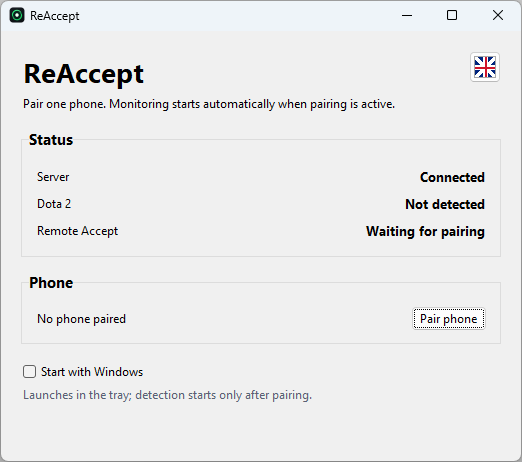
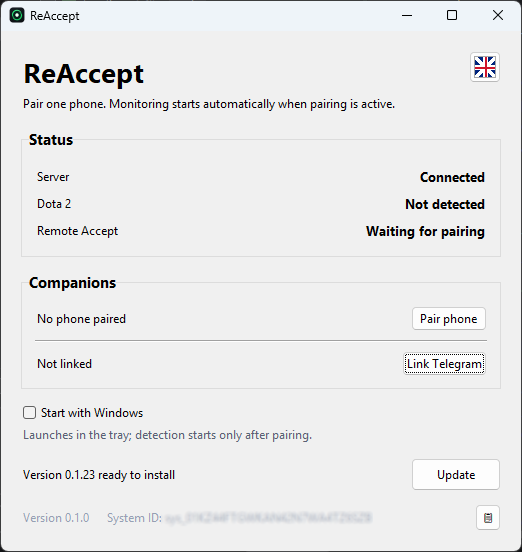
content: mention party invites, remote launch, and Telegram companion
Broadens the landing copy beyond match-found ready checks:

- Hero, meta/OG/Twitter, and JSON-LD description now cover party invites
  and remote Dota 2 launch, and refer to the unified "Companion" (phone
  app or Telegram) instead of just "your phone".
- How it works: step 2 retitled "Pair your Companion", copy trimmed so
  its image lines up with step 1; step 3 gets the new party-invite
  notification screenshot alongside the match-found one; added a note
  that the same flow covers party invites and remote launch.
- Features: three new cards (party invites, remote launch, Telegram).
- FAQ: added Telegram-as-alternative, party-invite/remote-launch scope,
  and unpair/revoke-anytime entries (the last one restores detail trimmed
  from step 2's copy).
- Features: dropped specific resolution callouts (1920x1080/2560x1440) in
  favor of "any resolution or display scale".
- Removed the 1-day trial mention (actual trial is 3 days) from the JSON-LD
  offer description and FAQ.
- Replaced desk-main.png and added app-party-notification.png with
  updated screenshots; bumped the shared asset rev to 20260819-1 so caches
  pick up the new images.

diff --git a/index.html b/index.html
@@ -4,7 +4,7 @@
   <meta charset="UTF-8">
   <meta name="viewport" content="width=device-width, initial-scale=1">
   <title>ReAccept — Remote match companion for Dota 2</title>
-  <meta name="description" content="Get notified and accept found match from your phone.">
+  <meta name="description" content="Get notified and accept found matches, respond to party invites, and launch Dota 2 remotely — from your Companion.">
   <link rel="canonical" href="https://re-accept.com/">
 
   <!-- Pre-launch: keep this page out of search results until billing is live.
@@ -14,16 +14,16 @@
   <!-- Open Graph / Twitter card -->
   <meta property="og:type" content="website">
   <meta property="og:title" content="ReAccept — Remote match companion for Dota 2">
-  <meta property="og:description" content="Get notified and accept found match from your phone.">
+  <meta property="og:description" content="Get notified and accept found matches, respond to party invites, and launch Dota 2 remotely — from your Companion.">
   <meta property="og:url" content="https://re-accept.com/">
-  <meta property="og:image" content="https://re-accept.com/assets/screenshots/en/og-cover.png?rev=20260812-2">
+  <meta property="og:image" content="https://re-accept.com/assets/screenshots/en/og-cover.png?rev=20260819-1">
   <meta name="twitter:card" content="summary_large_image">
   <meta name="twitter:title" content="ReAccept — Remote match companion for Dota 2">
-  <meta name="twitter:description" content="Get notified and accept found match from your phone.">
-  <meta name="twitter:image" content="https://re-accept.com/assets/screenshots/en/og-cover.png?rev=20260812-2">
+  <meta name="twitter:description" content="Get notified and accept found matches, respond to party invites, and launch Dota 2 remotely — from your Companion.">
+  <meta name="twitter:image" content="https://re-accept.com/assets/screenshots/en/og-cover.png?rev=20260819-1">
 
-  <link rel="icon" href="assets/icon.png?rev=20260812-2">
-  <link rel="stylesheet" href="styles.css?rev=20260812-2">
+  <link rel="icon" href="assets/icon.png?rev=20260819-1">
+  <link rel="stylesheet" href="styles.css?rev=20260819-1">
 
   <script type="application/ld+json">
   {
@@ -33,12 +33,12 @@
     "applicationCategory": "UtilitiesApplication",
     "operatingSystem": "Windows, Android",
     "url": "https://re-accept.com/",
-    "description": "Get notified and accept found match from your phone.",
+    "description": "Get notified and accept found matches, respond to party invites, and launch Dota 2 remotely — from your Companion.",
     "offers": {
       "@type": "Offer",
       "price": "0",
       "priceCurrency": "USD",
-      "description": "Free tier: 3 remote accepts total. Paid subscription: unlimited remote accepts, 1-day free trial."
+      "description": "Free tier: 3 remote accepts total. Paid subscription: unlimited remote accepts."
     }
   }
   </script>
@@ -48,7 +48,7 @@
   <header class="hero">
     <nav class="nav">
       <div class="brand">
-        <img src="assets/icon.png?rev=20260812-2" alt="" class="brand-icon">
+        <img src="assets/icon.png?rev=20260819-1" alt="" class="brand-icon">
         ReAccept
       </div>
       <div class="nav-links">
@@ -63,15 +63,18 @@
       <div class="hero-content">
         <h1>ReAccept</h1>
         <p class="hero-tagline">Remote match companion for Dota 2</p>
-        <p class="subhead">Get notified and accept found match from your phone.</p>
+        <p class="subhead">Get notified and accept found matches, respond to party invites, and
+          launch Dota 2 remotely — from your Companion.</p>
         <div class="cta-row">
           <a class="btn btn-primary" href="#download-windows">Download for Windows</a>
           <a class="btn btn-secondary" href="#download-android">Get the Android app</a>
         </div>
         <p class="hero-note">Free to try — 3 remote accepts on us, no account hassle.</p>
+        <p class="hero-note">Prefer Telegram? Link it from the desktop app instead of installing
+          anything — see <a href="#faq">FAQ</a>.</p>
       </div>
       <div class="hero-shot">
-        <img src="assets/screenshots/en/app-match-found.png?rev=20260812-2"
+        <img src="assets/screenshots/en/app-match-found.png?rev=20260819-1"
              alt="ReAccept phone notification for a match found, with an Accept button"
              loading="lazy">
       </div>
@@ -89,17 +92,17 @@
             <h3>Install the desktop agent</h3>
             <p>Runs quietly in the background while you queue. No border, no overlay, no interference
               with DX11 or Vulkan.</p>
-            <img class="step-shot step-shot-wide" src="assets/screenshots/en/desk-main.png?rev=20260812-2"
+            <img class="step-shot step-shot-wide" src="assets/screenshots/en/desk-main.png?rev=20260819-1"
                  alt="ReAccept desktop app showing server connected and Dota 2 detected">
           </div>
         </li>
         <li>
           <span class="step-num">2</span>
           <div>
-            <h3>Pair your phone</h3>
-            <p>Scan a QR code from the ReAccept app once. The pairing is per-device and can be
-              revoked at any time.</p>
-            <img class="step-shot step-pair-wide" src="assets/screenshots/en/desk-qr.png?rev=20260812-2"
+            <h3>Pair your Companion</h3>
+            <p>Scan a QR code from the ReAccept app once, or open the Telegram link shown in the
+              same spot on the desktop.</p>
+            <img class="step-shot step-pair-wide" src="assets/screenshots/en/desk-qr.png?rev=20260819-1"
                  alt="One-time pairing QR code shown by the ReAccept desktop app">
           </div>
         </li>
@@ -108,8 +111,10 @@
           <div>
             <h3>Get notified</h3>
             <p>A ready check appears — your phone buzzes with a push notification immediately.</p>
-            <img class="step-shot" src="assets/screenshots/en/app-notification.png?rev=20260812-2"
+            <img class="step-shot" src="assets/screenshots/en/app-notification.png?rev=20260819-1"
                  alt="Phone notification showing a Dota match found, with a large Accept action">
+            <img class="step-shot" src="assets/screenshots/en/app-party-notification.png?rev=20260819-1"
+                 alt="Phone notification showing a party invite, with Accept and Decline actions">
           </div>
         </li>
         <li>
@@ -117,7 +122,7 @@
           <div>
             <h3>Accept from anywhere</h3>
             <p>Tap Accept in the notification or the app. Your PC clicks the match for you.</p>
-            <img class="step-shot" src="assets/screenshots/en/app-match-found.png?rev=20260812-2"
+            <img class="step-shot" src="assets/screenshots/en/app-match-found.png?rev=20260819-1"
                  alt="ReAccept phone screen with the Match found dialog and Accept button">
           </div>
         </li>
@@ -125,6 +130,8 @@
       <p class="steps-note">Tapping <strong>Cancel</strong> in the app only dismisses that
         notification on your phone — it does not decline or cancel the actual Dota 2 match. If
         you don't act, the ready check just runs its normal course in-game.</p>
+      <p class="steps-note">The same flow also covers <strong>party invites</strong> and
+        <strong>launching Dota 2 itself</strong> — not just ready checks.</p>
     </section>
 
     <section id="background" class="section section-callout">
@@ -135,19 +142,19 @@
         optional.</p>
       <div class="callout-sequence">
         <figure>
-          <img src="assets/screenshots/en/app-settings.png?rev=20260812-2"
+          <img src="assets/screenshots/en/app-settings.png?rev=20260819-1"
                alt="ReAccept in-app Settings screen with a Request unrestricted battery use button"
                loading="lazy">
           <figcaption>1. In ReAccept → Settings, request unrestricted battery use</figcaption>
         </figure>
         <figure>
-          <img src="assets/screenshots/en/app-info.png?rev=20260812-2"
+          <img src="assets/screenshots/en/app-info.png?rev=20260819-1"
                alt="Android App info screen for ReAccept with Battery usage highlighted"
                loading="lazy">
           <figcaption>2. Open App info → Battery usage</figcaption>
         </figure>
         <figure>
-          <img src="assets/screenshots/en/app-allow-bg-activity.png?rev=20260812-2"
+          <img src="assets/screenshots/en/app-allow-bg-activity.png?rev=20260819-1"
                alt="Android Battery usage screen with Allow background activity enabled"
                loading="lazy">
           <figcaption>3. Turn on "Allow background activity"</figcaption>
@@ -160,7 +167,7 @@
       <div class="feature-grid">
         <div class="feature">
           <h3>Works with your setup</h3>
-          <p>DX11 and Vulkan, borderless and windowed, 1920x1080 and 2560x1440.</p>
+          <p>DX11 and Vulkan, borderless and windowed, any resolution or display scale.</p>
         </div>
         <div class="feature">
           <h3>Locale-independent detection</h3>
@@ -174,6 +181,20 @@
           <h3>Just a notification, or a real accept</h3>
           <p>Notifications are always on. Your first 3 remote accepts are free — after that,
             subscribe to keep accepting remotely.</p>
+        </div>
+        <div class="feature">
+          <h3>Party invites, too</h3>
+          <p>Get pinged the moment a friend invites you to a party, with a preview of who's in
+            it, and accept or decline right from your Companion.</p>
+        </div>
+        <div class="feature">
+          <h3>Launch Dota 2 remotely</h3>
+          <p>Start Dota 2 on your PC from your phone before you're even at your desk.</p>
+        </div>
+        <div class="feature">
+          <h3>Or just use Telegram</h3>
+          <p>Skip installing the Android app — link Telegram once and get the same accept,
+            decline, and launch actions as buttons right in the chat.</p>
         </div>
       </div>
     </section>
@@ -220,7 +241,24 @@
           <summary>What's free vs. paid?</summary>
           <p>Notifications are always free, for every match. You also get 3 remote accepts free,
             total. After that, you'll still get the notification, but accepting remotely requires a
-            subscription (with a 1-day free trial).</p>
+            subscription.</p>
+        </details>
+        <details>
+          <summary>Do I need the Android app, or can I use Telegram instead?</summary>
+          <p>Either works. Link your Telegram account once from the desktop app and you'll get the
+            same match, party-invite, and remote-launch actions as buttons right in the chat with
+            the bot — no separate app install required. You can also use both at the same time.</p>
+        </details>
+        <details>
+          <summary>Can I unpair my phone or Telegram later?</summary>
+          <p>Yes. Pairing is per-device — scanning the QR again or re-linking Telegram doesn't
+            affect any other device — and can be revoked at any time from the desktop app.</p>
+        </details>
+        <details>
+          <summary>Does this only work for ready checks?</summary>
+          <p>No — the same remote notification-and-action flow also covers party invites (accept
+            or decline from your phone) and launching Dota 2 itself, not just accepting a found
+            match.</p>
         </details>
       </div>
     </section>
@@ -239,7 +277,7 @@
           <h3>Android</h3>
           <p class="download-copy-desktop">Scan the QR code, or download the APK directly.</p>
           <p class="download-copy-mobile">Download the APK directly to your phone.</p>
-          <img class="qr" src="assets/screenshots/en/android-qr-placeholder.png?rev=20260812-2"
+          <img class="qr" src="assets/screenshots/en/android-qr-placeholder.png?rev=20260819-1"
                alt="QR code to download the ReAccept Android app" loading="lazy">
           <a class="btn btn-secondary" href="https://github.com/enyded/dota_ready/releases/latest/download/ReAccept.apk">
             Download APK

diff --git a/privacy.html b/privacy.html
@@ -6,8 +6,8 @@
   <title>Privacy Policy — ReAccept</title>
   <meta name="robots" content="noindex, nofollow">
   <link rel="canonical" href="https://re-accept.com/privacy.html">
-  <link rel="icon" href="assets/icon.png?rev=20260812-2">
-  <link rel="stylesheet" href="styles.css?rev=20260812-2">
+  <link rel="icon" href="assets/icon.png?rev=20260819-1">
+  <link rel="stylesheet" href="styles.css?rev=20260819-1">
   <style>
     .doc { max-width: 720px; margin: 0 auto; padding: 64px 24px; }
     .doc h1 { font-size: 1.8rem; }

diff --git a/styles.css b/styles.css
@@ -251,6 +251,10 @@ h1, h2, h3 {
   border: 1px solid var(--border);
 }
 
+.step-shot + .step-shot {
+  margin-top: 12px;
+}
+
 .step-shot-wide,
 .step-pair-wide {
   max-width: 360px;

diff --git a/assets/screenshots/en/README.md b/assets/screenshots/en/README.md
@@ -3,8 +3,9 @@ Default/fallback locale screenshots (see `landing/README.md`, "Screenshots and l
 Present:
 - `desk-main.png`, `desk-qr.png` — Windows desktop app.
 - `app-main.png`, `app-match-found.png` (full phone screen), `app-notification.png` (cropped to
-  just the notification banner, used for "Get notified"), `app-settings.png`, `app-info.png`,
-  `app-allow-bg-activity.png` — Android app.
+  just the notification banner, used for "Get notified"), `app-party-notification.png` (party
+  invite notification banner, shown alongside it in the same step), `app-settings.png`,
+  `app-info.png`, `app-allow-bg-activity.png` — Android app.
 - `og-cover.png` — generated Open Graph/Twitter card preview.
 - `android-qr-placeholder.png` — generated QR pointing at the (not-yet-published) APK release
   asset URL; will 404 until a release with that filename actually exists.

diff --git a/README.md b/README.md
@@ -28,8 +28,8 @@ without requiring a language switcher to exist yet — right now the page only r
 capturing screenshots per-locale from day one avoids a re-shoot later.
 
 Filenames must stay identical across locale folders so the fallback lookup is a pure path swap:
-- `app-main.png`, `app-match-found.png`, `app-notification.png`, `app-settings.png`,
-  `app-info.png`, `app-allow-bg-activity.png` — Android app screens.
+- `app-main.png`, `app-match-found.png`, `app-notification.png`, `app-party-notification.png`,
+  `app-settings.png`, `app-info.png`, `app-allow-bg-activity.png` — Android app screens.
 - `desk-main.png`, `desk-qr.png` — Windows desktop app screens.
 - `og-cover.png` — generated cover image, not a screenshot (locale-specific OG previews are a
   nice-to-have, not required).
